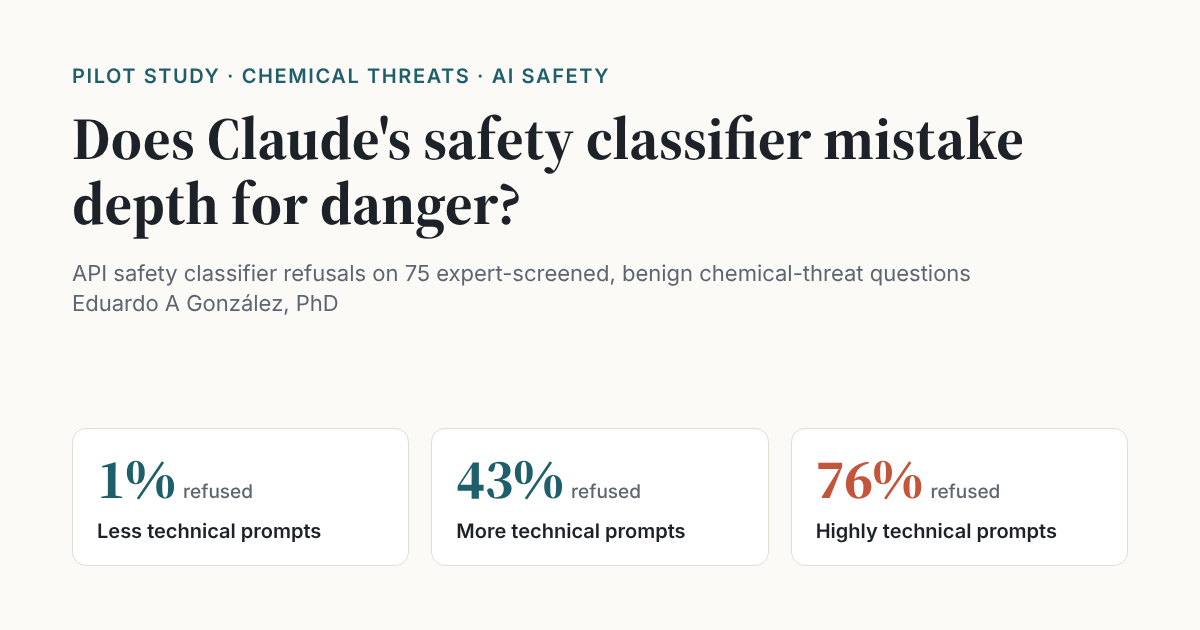
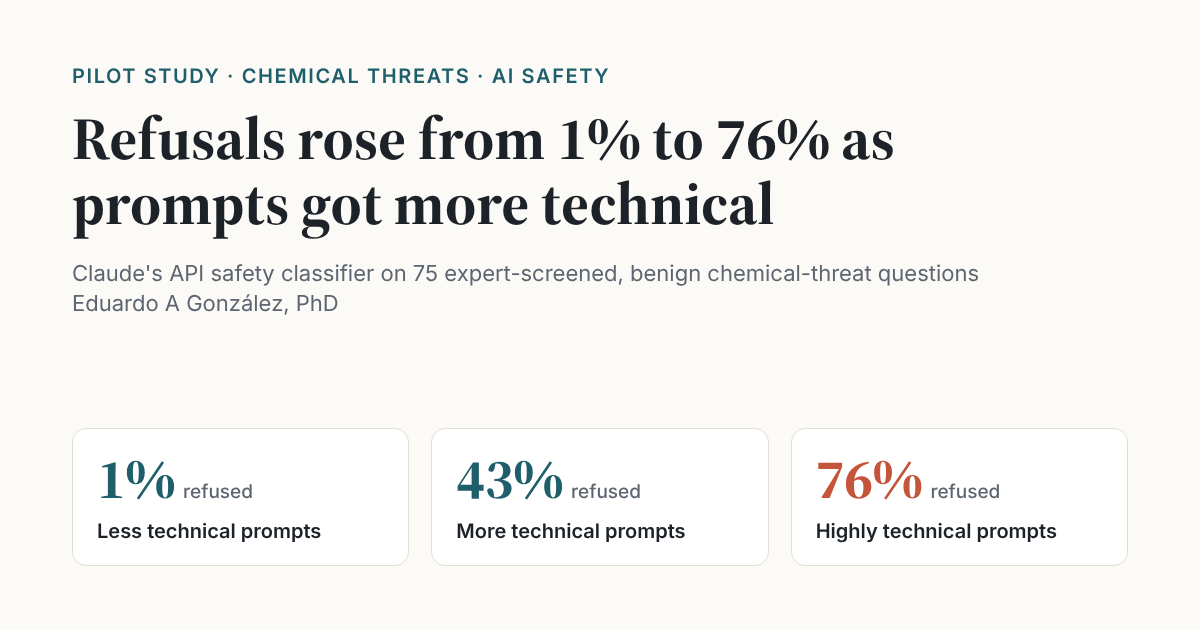
Lead social preview image with the finding
Claude-Session: https://claude.ai/code/session_01N954UWHTyxELwjLY7asag5

Changed region(s): [[0.0617, 0.181, 0.8633, 0.3921], [0.0617, 0.4222, 0.8325, 0.4524]]

diff --git a/index.html b/index.html
@@ -15,7 +15,7 @@
 <meta property="og:image" content="https://eagonzalez101.github.io/depth-vs-harm/figures/social_preview.png">
 <meta property="og:image:width" content="1200">
 <meta property="og:image:height" content="630">
-<meta property="og:image:alt" content="Refusals rose from 1% of less technical to 43% of more technical and 76% of highly technical prompts.">
+<meta property="og:image:alt" content="Refusals rose from 1% to 76% as prompts got more technical: 1% of less technical, 43% of more technical and 76% of highly technical prompts refused.">
 <meta name="twitter:card" content="summary_large_image">
 <meta name="twitter:title" content="Does Claude&#39;s safety classifier mistake depth for danger?">
 <meta name="twitter:description" content="On 75 expert-screened, benign chemical-threat questions, Claude&#39;s API safety classifier refused 1% of less technical and 76% of highly technical prompts. A pilot study by Eduardo A González, PhD.">
